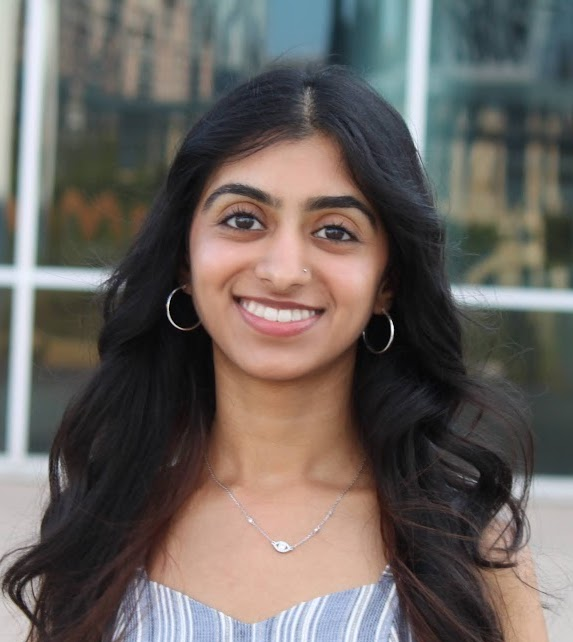
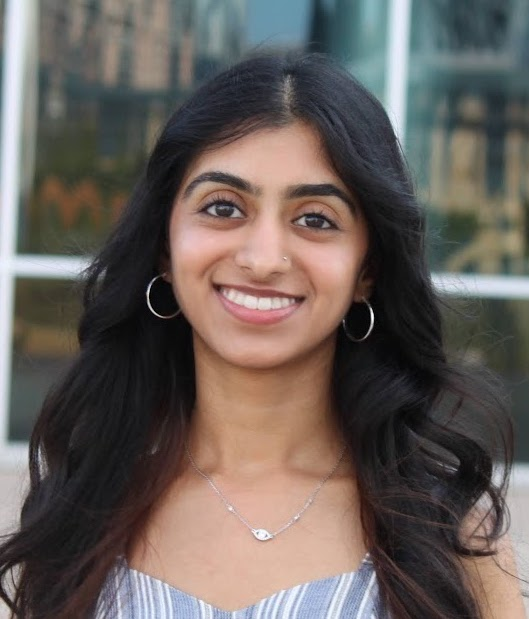
photos

diff --git a/index.html b/index.html
@@ -414,7 +414,7 @@
               </div>
             </div>
             <div class="profile">
-              <img src="images/people/person_icon.png" alt="Netrang Desai">
+              <img src="images/people/Netrang_Gurav_Desai.jpg" alt="Netrang Desai">
               <div class="details">
                 Netrang Desai
               </div>
